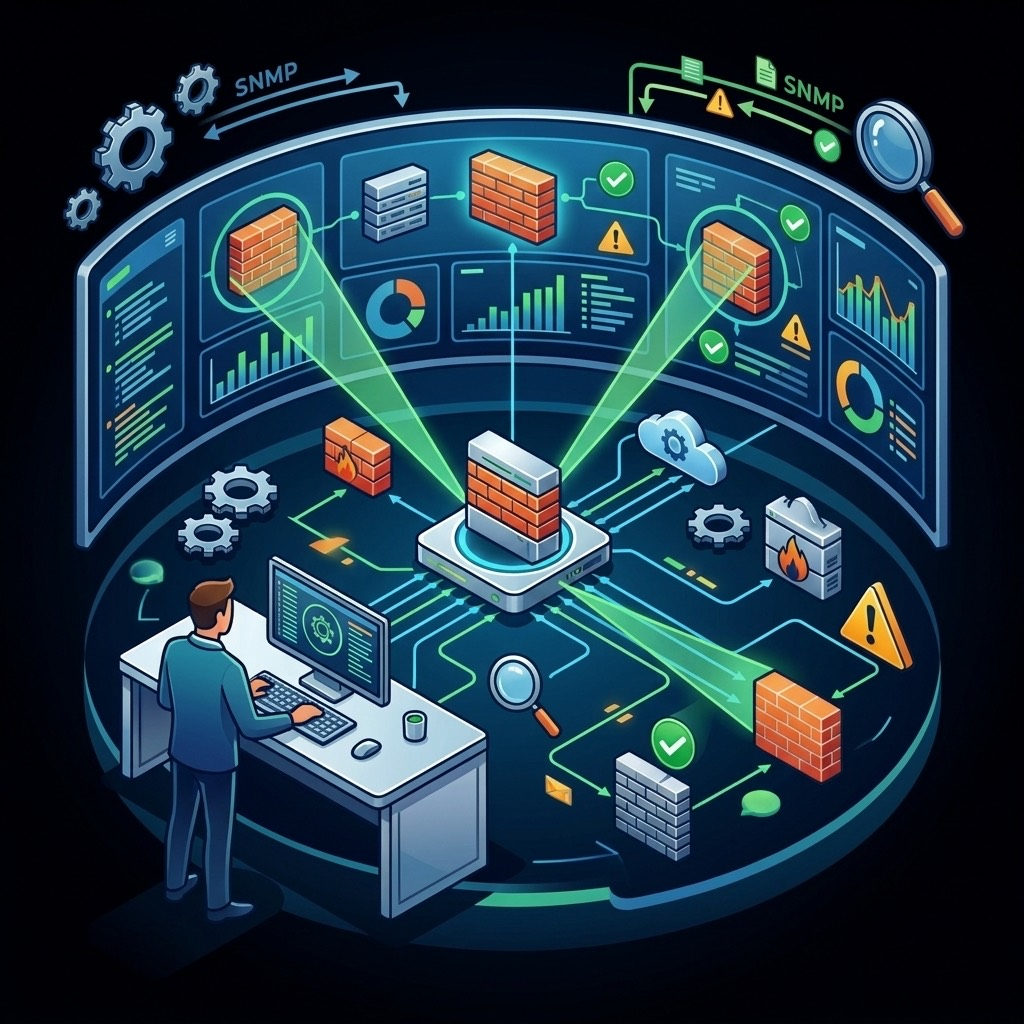
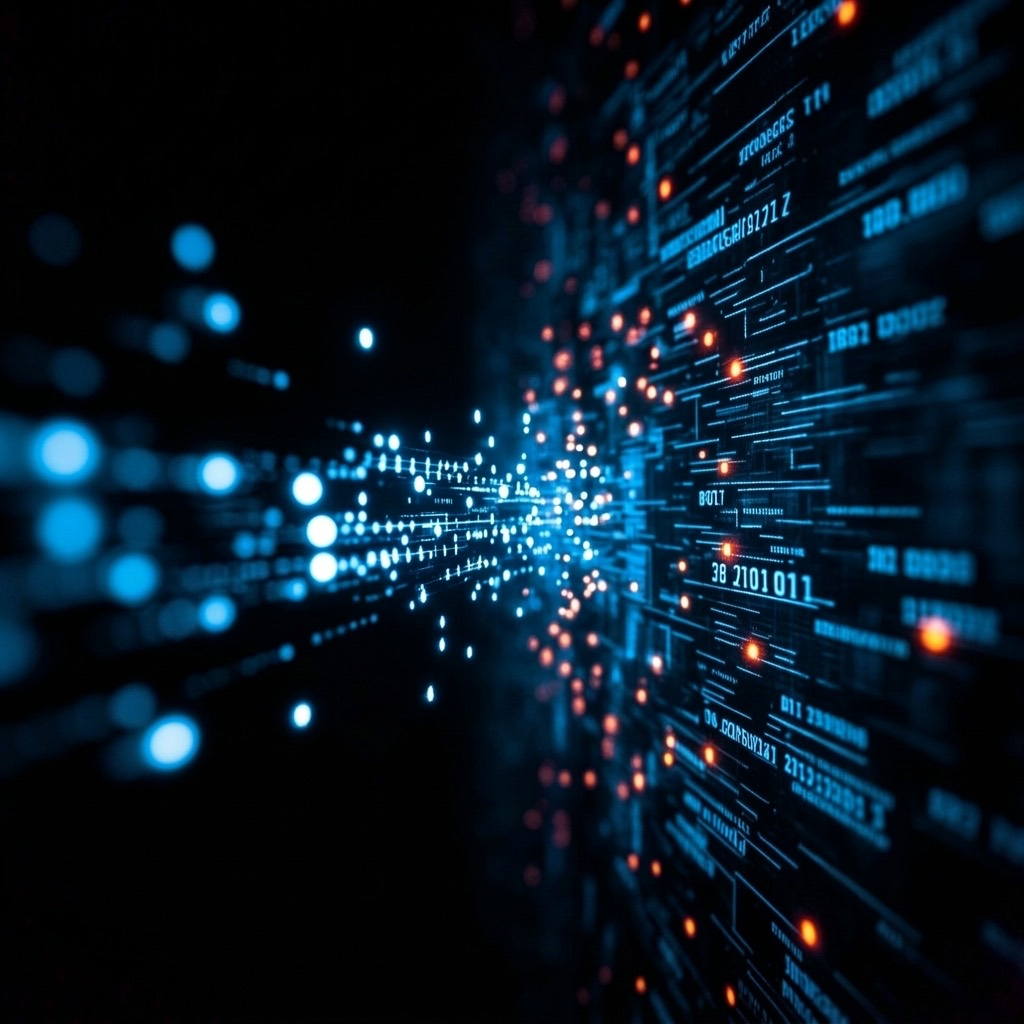
Swap SNMP, Probe-Relay, and Enterprise Alerting card images for newer takes — v0.2.10

diff --git a/index.html b/index.html
@@ -781,7 +781,7 @@
                 
                 <div class="features-grid">
                     <!-- Card 1 -->
-                    <div class="feature-card" style="background-image: url('assets/features/f1-multivendor.png?v=0.2.6');">
+                    <div class="feature-card" style="background-image: url('assets/features/f1-multivendor.png?v=0.2.10');">
                         <div class="feature-card-overlay"></div>
                         <div class="feature-card-content">
                             <div class="feature-card-header">
@@ -817,7 +817,7 @@
                     </div>
                     
                     <!-- Card 4 -->
-                    <div class="feature-card" style="background-image: url('assets/features/f4-probe-relay.png?v=0.2.8');">
+                    <div class="feature-card" style="background-image: url('assets/features/f4-probe-relay.png?v=0.2.10');">
                         <div class="feature-card-overlay"></div>
                         <div class="feature-card-content">
                             <div class="feature-card-header">
@@ -865,7 +865,7 @@
                     </div>
 
                     <!-- Card 8 -->
-                    <div class="feature-card" style="background-image: url('assets/features/f8-alerting.png?v=0.2.8');">
+                    <div class="feature-card" style="background-image: url('assets/features/f8-alerting.png?v=0.2.10');">
                         <div class="feature-card-overlay"></div>
                         <div class="feature-card-content">
                             <div class="feature-card-header">

diff --git a/CHANGELOG.md b/CHANGELOG.md
@@ -3,6 +3,14 @@
 All notable changes to the Firewall-Mon marketing website are documented here.
 This file follows [Keep a Changelog](https://keepachangelog.com/) conventions; versions are newest-first.
 
+## [0.2.10] - 2026-07-18
+
+### Changed
+- Swapped three feature-card images for newer takes: card 1 Multi-Vendor SNMP
+  (`f1-multivendor.png`), card 4 Probe-Relay Architecture (`f4-probe-relay.png`),
+  and card 8 Enterprise Alerting (`f8-alerting.png`). Cache-busters bumped to
+  `?v=0.2.10`.
+
 ## [0.2.9] - 2026-07-18
 
 ### Added